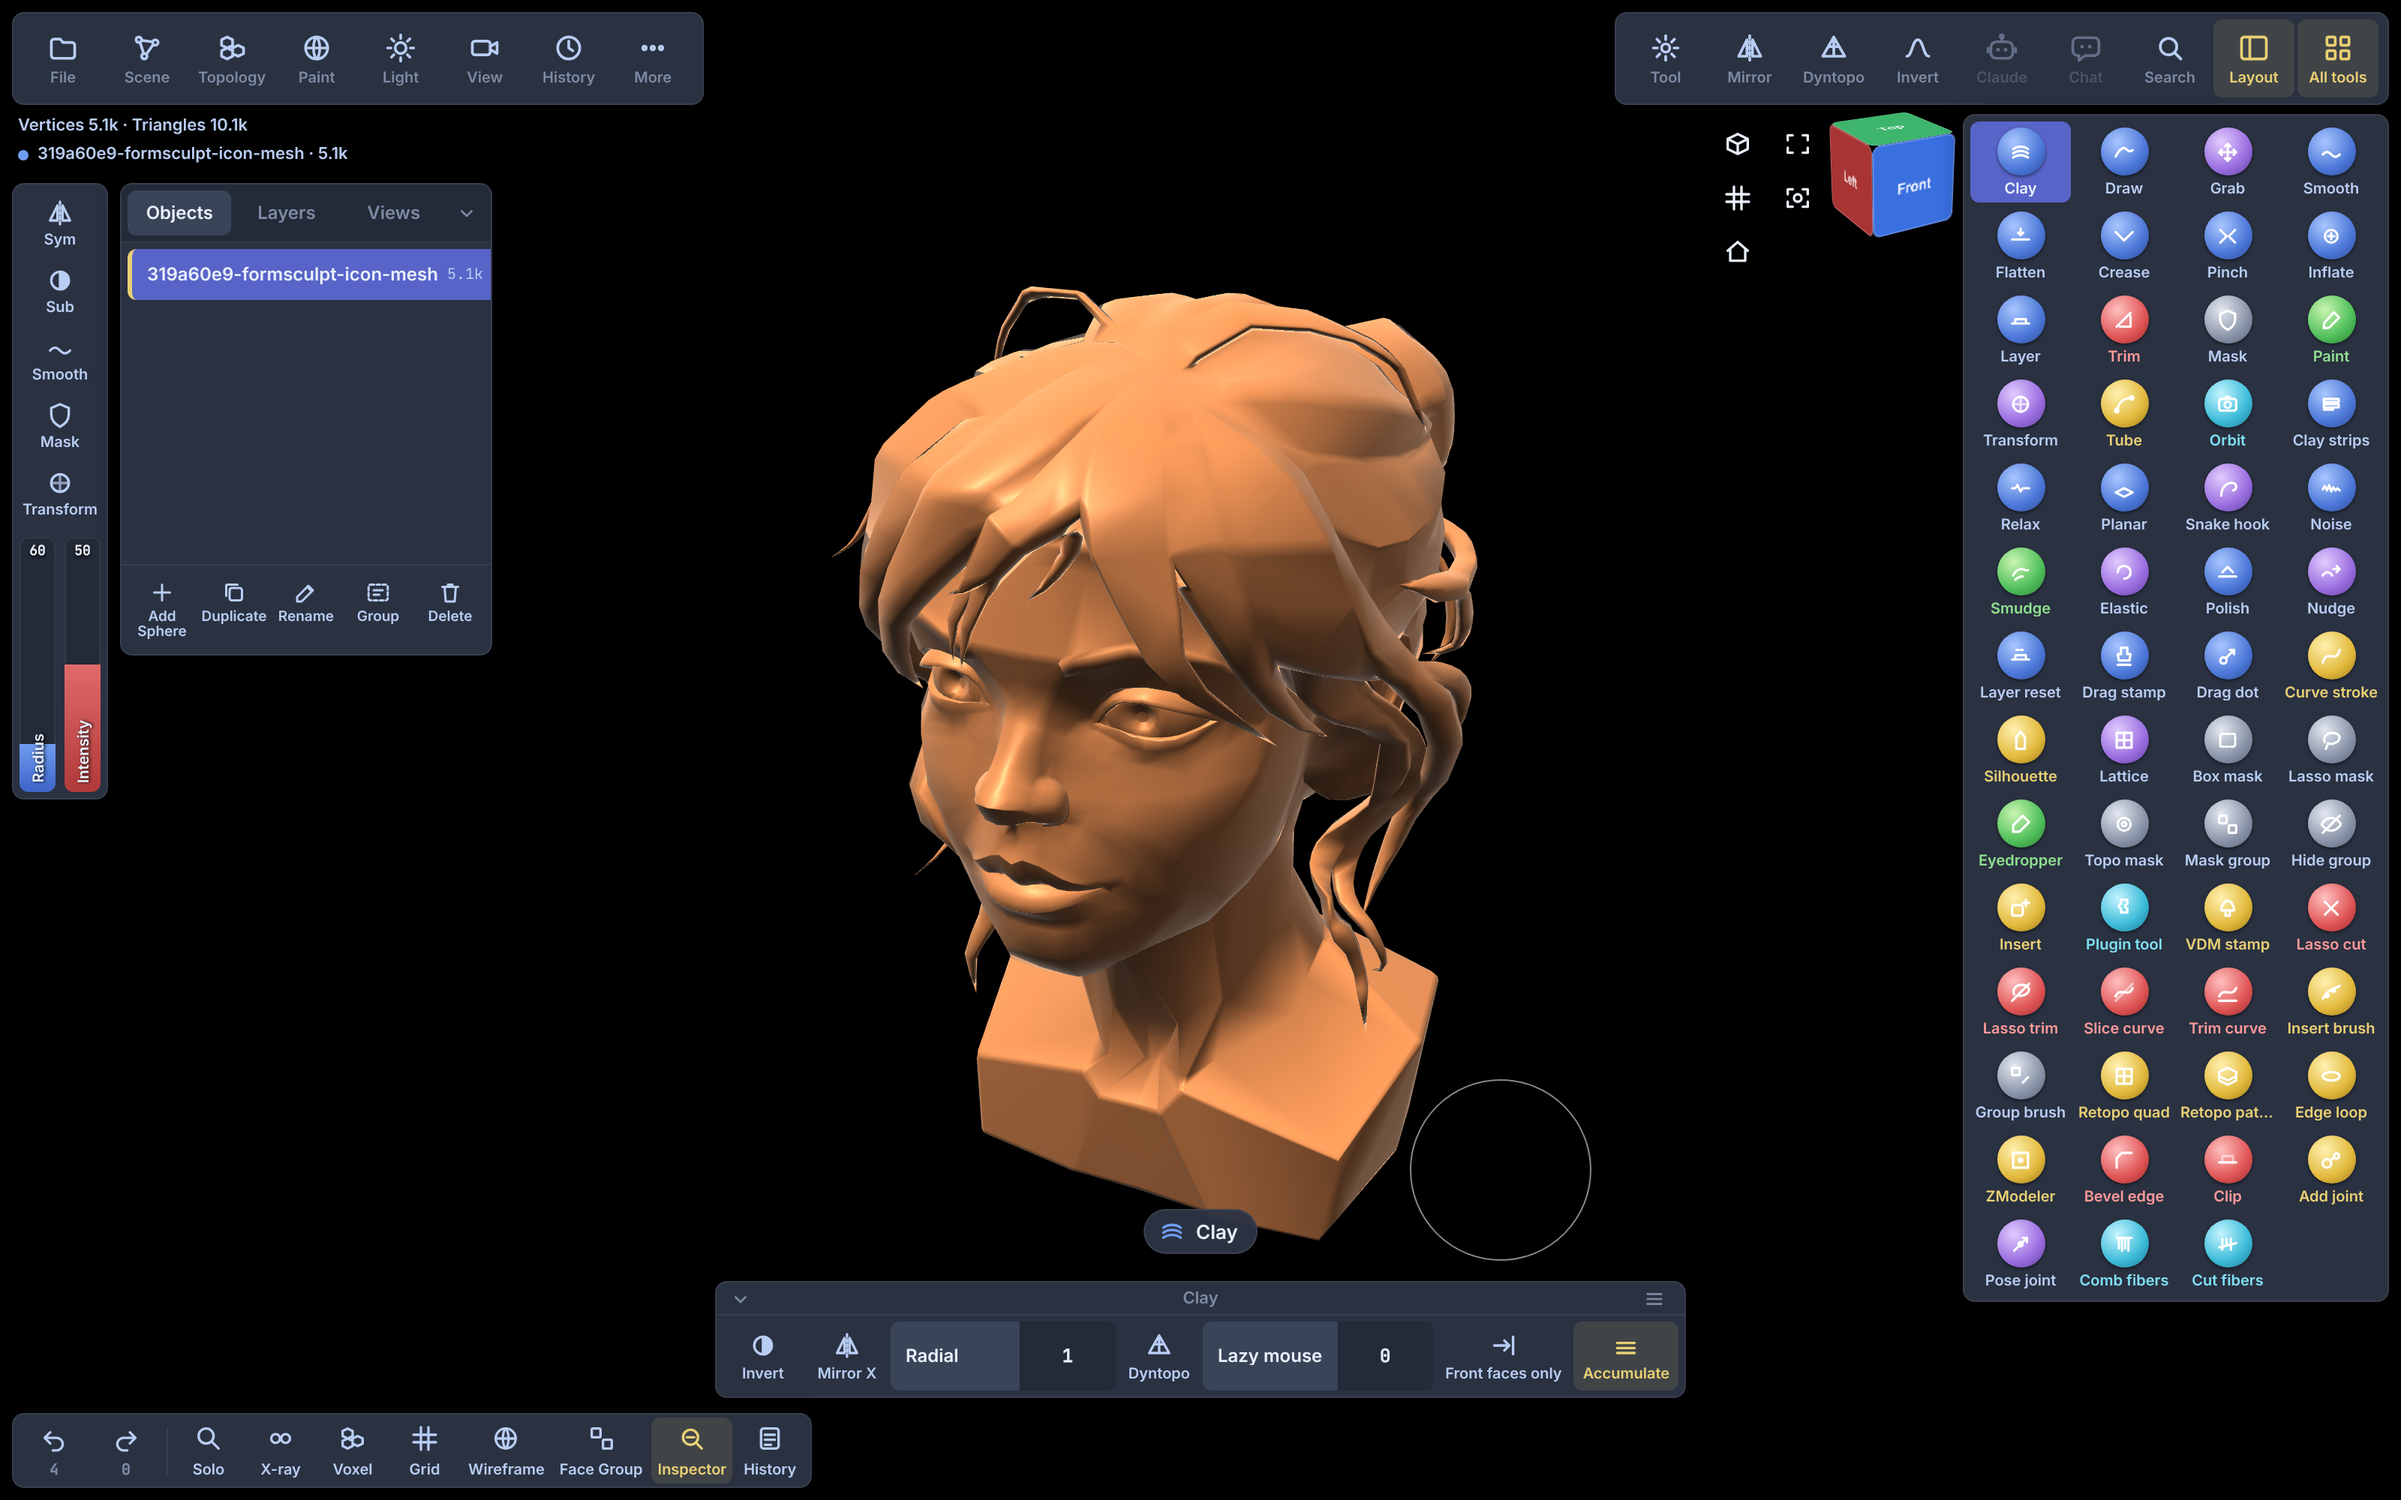
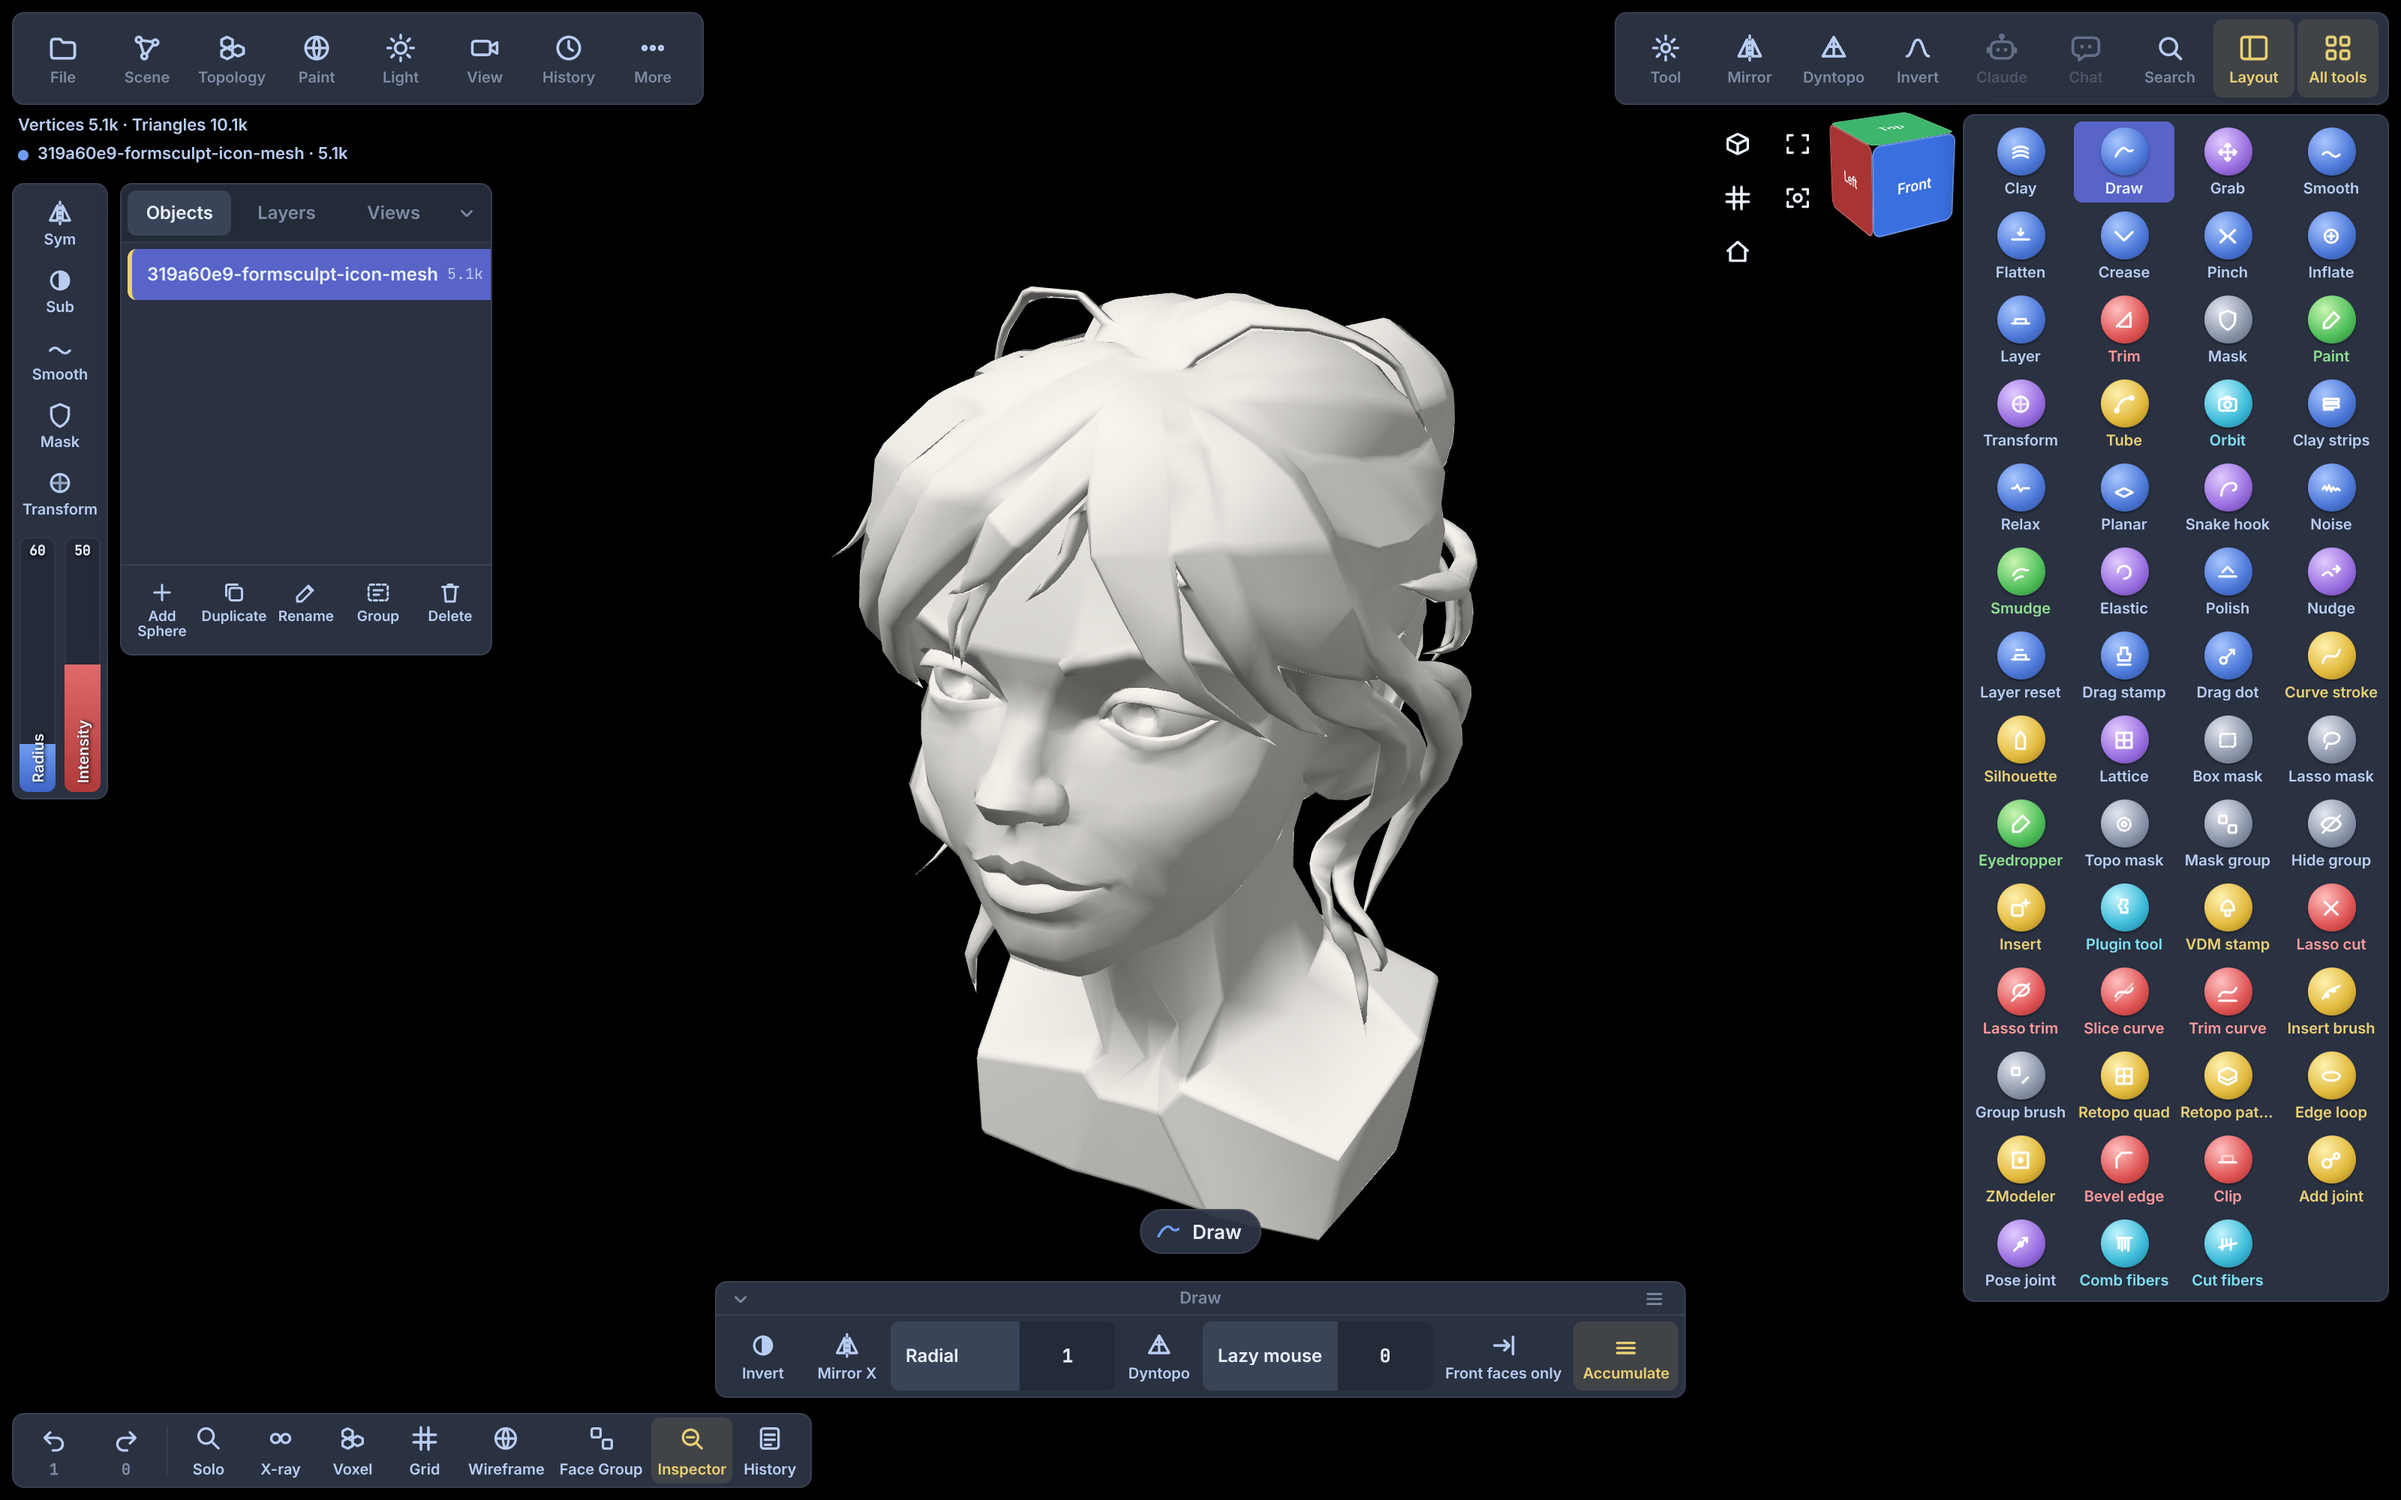
docs(images): white plaster bust as the README hero

Changed region(s): [[0.3438, 0.186, 0.625, 0.837], [0.8125, 0.062, 0.9062, 0.155]]

diff --git a/README.md b/README.md
@@ -26,9 +26,9 @@
 </p>
 
 <p align="center">
-  <img src="docs/images/formsculpt-hero.png" alt="FormSculpt with the female head bust from the app icon open in the viewport, the tool grid on the right and the Objects panel on the left" width="100%">
+  <img src="docs/images/formsculpt-hero.png" alt="FormSculpt with the female head bust from the app icon shown as white plaster in the viewport, the tool grid on the right and the Objects panel on the left" width="100%">
   <br>
-  <sub>The head bust the FormSculpt icon was made from, in the sculpt viewport after a few Clay strokes.</sub>
+  <sub>The head bust the FormSculpt icon was made from, imported as FBX and shown with a white plaster matcap.</sub>
 </p>
 
 <p align="center">
